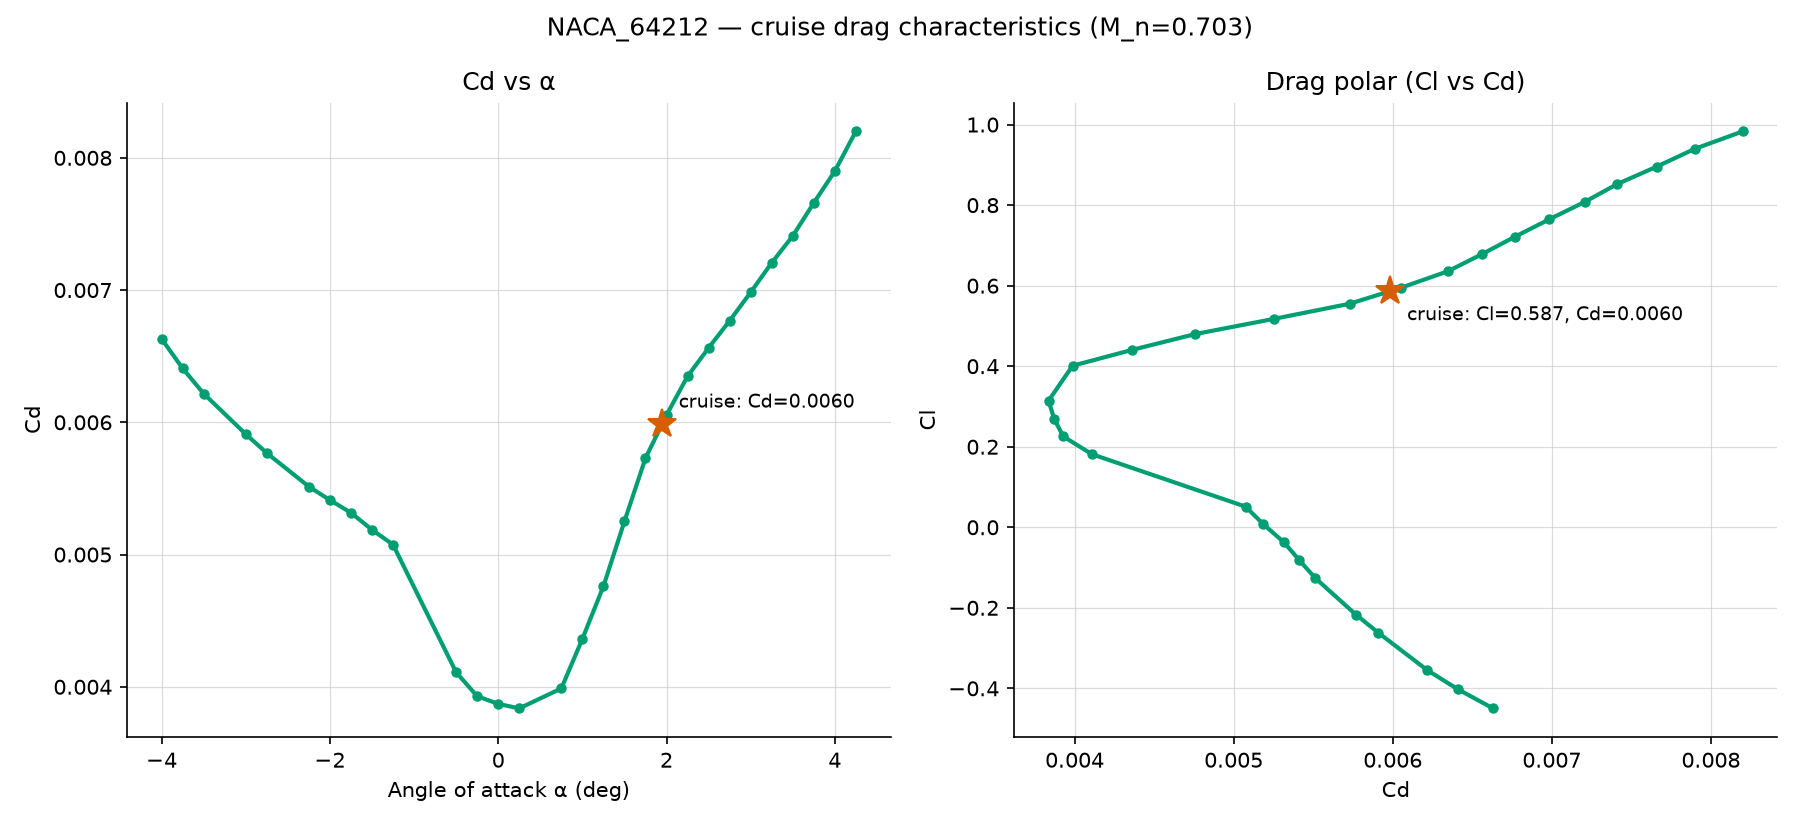
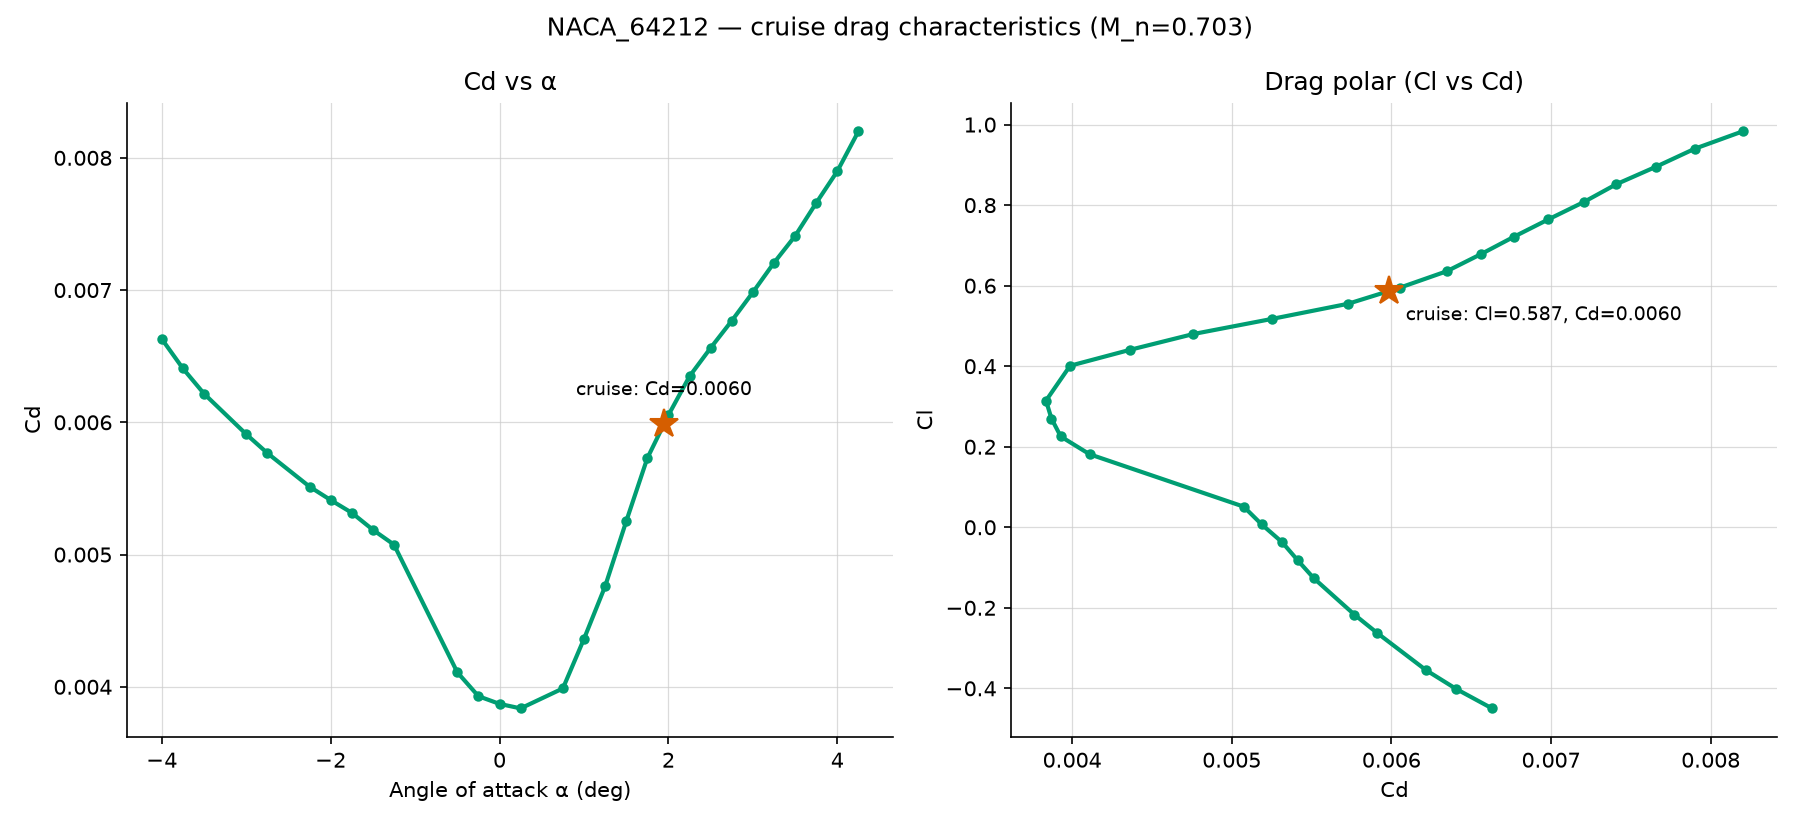
make_plots.py: fix annotation text crossed by data points
Two distinct bugs, found by actually looking at every plot for every
airfoil, not just the one spot-checked during the original build:

1. Non-converged tail markers were plotted at a single height per side
   (the curve's nearest endpoint), which only handles two contiguous
   breakdown regions. NACA_64212's cruise polar has isolated single-point
   convergence failures scattered inside an otherwise-converged region
   (alpha=-3.25, -2.50, -1.00, -0.75, 0.50) -- these all got yanked to
   the high-alpha tail height, visually fabricating a breakdown region
   that isn't real. Replaced with np.interp against the converged curve:
   isolated misses land on the curve's own trajectory (an honest "this
   point failed here" mark), genuine tails still clamp to the nearest
   endpoint. Extracted into a shared _plot_nonconverged_markers helper,
   now also used on the landing plot (previously had no non-converged
   markers at all).

2. Several "cruise: <value>" annotations used a small fixed diagonal
   offset (8, 8) that runs straight into the curve when it's still
   rising (or, for Cl_max_landing, when an isolated non-converged marker
   sits near the peak) -- verified directly on NASA_SC(2)-0712 (Cl/Cd,
   Cd) and NACA_64212 (Cl_max_landing collided with a real data marker).
   Fixed to center-anchor with real vertical clearance for the four
   "cruise point on a locally-monotonic curve" annotations, and to
[…]

diff --git a/wp2/scripts/make_plots.py b/wp2/scripts/make_plots.py
@@ -35,6 +35,7 @@ from pathlib import Path
 
 import matplotlib
 import matplotlib.pyplot as plt
+import numpy as np
 import pandas as pd
 
 matplotlib.use("Agg")  # headless: this script only ever saves PNGs
@@ -79,6 +80,37 @@ def _cruise_operating_point(stem: str) -> dict[str, float]:
     return polar_analysis.interpolate_at_cl(cruise, config.CRUISE.cl_normal)
 
 
+def _plot_nonconverged_markers(
+    ax: "plt.Axes", polar: pd.DataFrame, converged: pd.DataFrame
+) -> None:
+    """Mark every non-converged alpha with an 'x', at a y-position that
+    honestly reflects where it sits relative to the converged curve.
+
+    Not a single fixed height: the two-leg sweep can leave non-converged
+    points both in genuine tail-breakdown regions (past either end of the
+    converged range) AND as isolated single-point misses scattered inside
+    an otherwise-converged region (a numerical hiccup, not a real aero
+    break -- verified directly: NACA_64212's cruise polar has isolated
+    non-converged points at alpha=-3.25, -2.50, -1.00, -0.75, 0.50, mixed
+    in with converged neighbors on both sides). np.interp handles both
+    cases in one call: it linearly interpolates a point's y from its
+    converged neighbors when it falls inside their alpha range, and
+    clamps to the nearest endpoint's y when it falls outside it (the
+    tail case) -- so an isolated miss lands naturally on the curve's own
+    trajectory instead of being yanked to a distant tail height, and a
+    real tail lands at that end's Cl instead of being extrapolated.
+    """
+    nonconverged = polar[~polar["converged"]]
+    if nonconverged.empty or converged.empty:
+        return
+    y = np.interp(nonconverged["alpha"], converged["alpha"], converged["cl"])
+    ax.scatter(
+        nonconverged["alpha"], y,
+        marker="x", s=40, color=_NONCONVERGED_COLOR,
+        label="did not converge (breakdown)", zorder=4,
+    )
+
+
 def plot_cl_vs_alpha_cruise(stem: str, color: str, out_dir: Path) -> None:
     cruise = _read_polar(stem, "cruise")
     cl_max, stall_alpha = polar_analysis.find_cl_max(cruise)
@@ -91,24 +123,7 @@ def plot_cl_vs_alpha_cruise(stem: str, color: str, out_dir: Path) -> None:
         converged["alpha"], converged["cl"], color=color, linewidth=2,
         marker="o", markersize=4, label="converged", zorder=3,
     )
-    # Non-converged tail: two separate breakdown regions (the two-leg sweep
-    # stops independently at the low-alpha end and the high-alpha end), so
-    # each tail is plotted at the Cl of the curve's own nearest end, not a
-    # single shared height -- a flat height for both sides would place the
-    # low-alpha breakdown points at the high-alpha Cl, misrepresenting
-    # where the curve actually broke down.
-    nonconverged = cruise[~cruise["converged"]]
-    if not nonconverged.empty and not converged.empty:
-        alpha_min, alpha_max = converged["alpha"].min(), converged["alpha"].max()
-        cl_at_min, cl_at_max = converged["cl"].iloc[0], converged["cl"].iloc[-1]
-        tail_y = nonconverged["alpha"].apply(
-            lambda a: cl_at_min if a < alpha_min else cl_at_max
-        )
-        ax.scatter(
-            nonconverged["alpha"], tail_y,
-            marker="x", s=40, color=_NONCONVERGED_COLOR,
-            label="did not converge (breakdown)", zorder=4,
-        )
+    _plot_nonconverged_markers(ax, cruise, converged)
 
     ax.axvline(op["alpha"], color="#555555", linestyle="--", linewidth=1, zorder=2)
     ax.annotate(
@@ -147,9 +162,13 @@ def plot_cd_and_drag_polar(stem: str, color: str, out_dir: Path) -> None:
 
     ax_cd.plot(converged["alpha"], converged["cd"], color=color, linewidth=2, marker="o", markersize=4)
     ax_cd.plot([op["alpha"]], [op["cd"]], marker="*", markersize=14, color="#D55E00", zorder=5)
+    # Centered above with real vertical clearance, not a small diagonal
+    # offset -- the cruise point usually sits near the flat bottom of the
+    # drag bucket, and a small rightward offset can run into the curve
+    # turning back up (verified directly on NASA_SC(2)-0712).
     ax_cd.annotate(
         f"cruise: Cd={op['cd']:.4f}", xy=(op["alpha"], op["cd"]),
-        xytext=(8, 8), textcoords="offset points", fontsize=9,
+        xytext=(0, 14), textcoords="offset points", fontsize=9, ha="center",
     )
     ax_cd.set_xlabel("Angle of attack α (deg)")
     ax_cd.set_ylabel("Cd")
@@ -182,9 +201,16 @@ def plot_cl_cd_vs_alpha(stem: str, color: str, out_dir: Path) -> None:
     _style_axes(ax)
     ax.plot(converged["alpha"], cl_over_cd, color=color, linewidth=2, marker="o", markersize=4)
     ax.plot([op["alpha"]], [op_cl_cd], marker="*", markersize=14, color="#D55E00", zorder=5)
+    # Centered directly above the point rather than a small diagonal
+    # offset: Cl/Cd vs alpha is rising through the cruise point for every
+    # current candidate, so a label that extends rightward at nearly the
+    # same height as the curve (a small (8, 8) offset did this) runs
+    # straight into the curve's own continuation -- verified directly on
+    # NASA_SC(2)-0712. A center-anchored label with real vertical
+    # clearance stays above the curve on both sides of the point.
     ax.annotate(
         f"cruise: Cl/Cd={op_cl_cd:.1f}", xy=(op["alpha"], op_cl_cd),
-        xytext=(8, 8), textcoords="offset points", fontsize=9,
+        xytext=(0, 20), textcoords="offset points", fontsize=9, ha="center",
     )
     ax.set_xlabel("Angle of attack α (deg)")
     ax.set_ylabel("Cl / Cd")
@@ -203,9 +229,12 @@ def plot_cm_vs_alpha(stem: str, color: str, out_dir: Path) -> None:
     _style_axes(ax)
     ax.plot(converged["alpha"], converged["cm"], color=color, linewidth=2, marker="o", markersize=4)
     ax.plot([op["alpha"]], [op["cm"]], marker="*", markersize=14, color="#D55E00", zorder=5)
+    # Centered above with real vertical clearance -- Cm vs alpha is rising
+    # through the cruise point for every current candidate, same rationale
+    # as the Cl/Cd and Cd plots above.
     ax.annotate(
         f"cruise: Cm={op['cm']:.4f}", xy=(op["alpha"], op["cm"]),
-        xytext=(8, 8), textcoords="offset points", fontsize=9,
+        xytext=(0, 16), textcoords="offset points", fontsize=9, ha="center",
     )
     ax.axhline(0.0, color="#999999", linewidth=1, linestyle=":", zorder=1)
     ax.set_xlabel("Angle of attack α (deg)")
@@ -273,16 +302,27 @@ def plot_landing_cl_vs_alpha(stem: str, color: str, out_dir: Path) -> None:
 
     fig, ax = plt.subplots(figsize=(8, 6))
     _style_axes(ax)
-    ax.plot(converged["alpha"], converged["cl"], color=color, linewidth=2, marker="o", markersize=3)
+    ax.plot(
+        converged["alpha"], converged["cl"], color=color, linewidth=2,
+        marker="o", markersize=3, label="converged", zorder=3,
+    )
+    _plot_nonconverged_markers(ax, landing, converged)
     ax.plot([stall_alpha], [cl_max], marker="*", markersize=14, color="#D55E00", zorder=5)
+    # The star marks the curve's global Cl peak, so placing the label
+    # above it is always clear of the data -- nothing on the curve is
+    # ever higher. A downward/sideways offset risked colliding with the
+    # curve itself or with an isolated non-converged 'x' sitting on it
+    # (verified directly: NACA_64212's landing polar has one at alpha~14,
+    # right where a left-and-down label used to land).
     ax.annotate(
         f"Cl_max_landing={cl_max:.3f}\nα={stall_alpha:.2f}°",
-        xy=(stall_alpha, cl_max), xytext=(-110, -35), textcoords="offset points", fontsize=9,
+        xy=(stall_alpha, cl_max), xytext=(-60, 14), textcoords="offset points", fontsize=9,
     )
     ax.margins(y=0.15)
     ax.set_xlabel("Angle of attack α (deg)")
     ax.set_ylabel("Cl")
     ax.set_title(f"{stem} — landing polar (M_n={config.LANDING.mach_normal:.3f})")
+    ax.legend(loc="lower right", frameon=False)
     fig.tight_layout()
     fig.savefig(out_dir / "landing_cl_vs_alpha.png", dpi=150)
     plt.close(fig)
